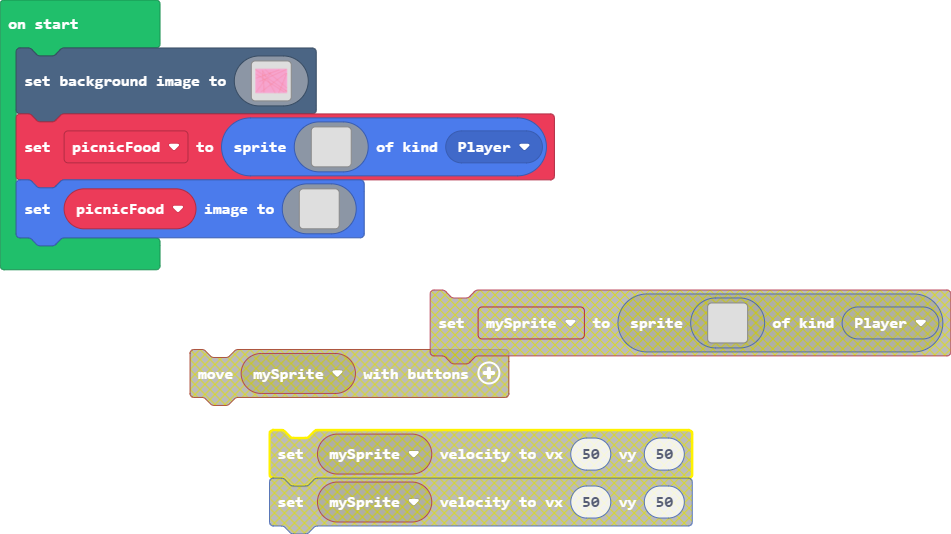
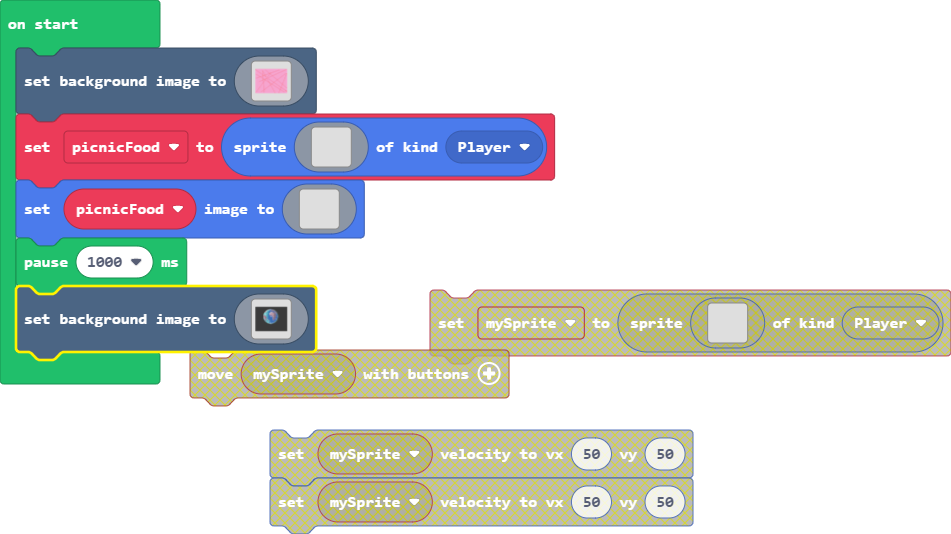
Update main.blocks, main.ts

diff --git a/main.ts b/main.ts
@@ -156,3 +156,126 @@ picnicFood.setImage(img`
     . . . . . . . . . . . . . . . . 
     . . . . . . . . . . . . . . . . 
     `)
+pause(1000)
+scene.setBackgroundImage(img`
+    ffffffffffffffffffffffffffffffffffffffffffffffffffffffffffffffffffffffffffffffffffffffffffffffffffffffffffffffffffffffffffffffffffffffffffffffffffffffffffffffff
+    ffffffffffffffffffffffffffffffffffffffffffffffffffffffffffffffffffffffffffffffffffffffffffffffffffffffffffffffffffffffffffffffffffffffffffffffffffffffffffffffff
+    ffffffffffffffffffffffffffffffffffffffffffffffffffffffffffffffffffffffffffffffffffffffffffffffffffffffffffffffffffffffffffffffffffffffffffffffffffffffffffffffff
+    ffffffffffffffffffffffffffffffffffffffffffffffffffffffffffffffffffffffffffffffffffffffffffffffffffffffffffffffffffffffffffffffffffffffffffffffffffffffffffffffff
+    ffffffffffffffffffffffffffffffffffffffffffffffffffffffffffffffffffffffffffffffffffffffffffffffffffffffffffffffffffffffffffffffffffffffffffffffffffffffffffffffff
+    ffffffffffffffffffffffffffffffffffffffffffffffffffffffffffffffffffffffffffffffffffffffffffffffffffffffffffffffffffffffffffffffffffffffffffffffffffffffffffffffff
+    ffffffffffffffffffffffffffffffffffffffffffffffffffffffffffffffffffffffffffffffffffffffffffffffffffffffffffffffffffffffffffffffffffffffffffffffffffffffffffffffff
+    ffffffffffffffffffffffffffffffffffffffffffffffffffffffffffffffffffffffffffffffffffffffffffffffffffffffffffffffffffffffffffffffffffffffffffffffffffffffffffffffff
+    ffffffffffffffffffffffffffffffffffffffffffffffffffffffffffffffffffffffffffffffffffffffffffffffffffffffffffffffffffffffffffffffffffffffffffffffffffffffffffffffff
+    ffffffffffffffffffffffffffffffffffffffffffffffffffffffffffffffffffffffffffffffffffffffffffffffffffffffffffffffffffffffffffffffffffffffffffffffffffffffffffffffff
+    ffffffffffffffffffffffffffffffffffffffffffffffffffffffffffffffffffffffffffffffffffffffffffffffffffffffffffffffffffffffffffffffffffffffffffffffffffffffffffffffff
[73 lines of base64/hex data omitted]
+    ffffffffffffffffffffffffffffffffffffffffffffffffffffffffffffffffffffffffffffffffffffffffffffffffffffffffffffffffffffffffffffffffffffffffffffffffffffffffffffffff
+    ffffffffffffffffffffffffffffffffffffffffffffffffffffffffffffffffffffffffffffffffffffffffffffffffffffffffffffffffffffffffffffffffffffffffffffffffffffffffffffffff
+    ffffffffffffffffffffffffffffffffffffffffffffffffffffffffffffffffffffffffffffffffffffffffffffffffffffffffffffffffffffffffffffffffffffffffffffffffffffffffffffffff
+    ffffffffffffffffffffffffffffffffffffffffffffffffffffffffffffffffffffffffffffffffffffffffffffffffffffffffffffffffffffffffffffffffffffffffffffffffffffffffffffffff
+    ffffffffffffffffffffffffffffffffffffffffffffffffffffffffffffffffffffffffffffffffffffffffffffffffffffffffffffffffffffffffffffffffffffffffffffffffffffffffffffffff
+    ffffffffffffffffffffffffffffffffffffffffffffffffffffffffffffffffffffffffffffffffffffffffffffffffffffffffffffffffffffffffffffffffffffffffffffffffffffffffffffffff
+    ffffffffffffffffffffffffffffffffffffffffffffffffffffffffffffffffffffffffffffffffffffffffffffffffffffffffffffffffffffffffffffffffffffffffffffffffffffffffffffffff
+    ffffffffffffffffffffffffffffffffffffffffffffffffffffffffffffffffffffffffffffffffffffffffffffffffffffffffffffffffffffffffffffffffffffffffffffffffffffffffffffffff
+    ffffffffffffffffffffffffffffffffffffffffffffffffffffffffffffffffffffffffffffffffffffffffffffffffffffffffffffffffffffffffffffffffffffffffffffffffffffffffffffffff
+    ffffffffffffffffffffffffffffffffffffffffffffffffffffffffffffffffffffffffffffffffffffffffffffffffffffffffffffffffffffffffffffffffffffffffffffffffffffffffffffffff
+    ffffffffffffffffffffffffffffffffffffffffffffffffffffffffffffffffffffffffffffffffffffffffffffffffffffffffffffffffffffffffffffffffffffffffffffffffffffffffffffffff
+    ffffffffffffffffffffffffffffffffffffffffffffffffffffffffffffffffffffffffffffffffffffffffffffffffffffffffffffffffffffffffffffffffffffffffffffffffffffffffffffffff
+    ffffffffffffffffffffffffffffffffffffffffffffffffffffffffffffffffffffffffffffffffffffffffffffffffffffffffffffffffffffffffffffffffffffffffffffffffffffffffffffffff
+    ffffffffffffffffffffffffffffffffffffffffffffffffffffffffffffffffffffffffffffffffffffffffffffffffffffffffffffffffffffffffffffffffffffffffffffffffffffffffffffffff
+    ffffffffffffffffffffffffffffffffffffffffffffffffffffffffffffffffffffffffffffffffffffffffffffffffffffffffffffffffffffffffffffffffffffffffffffffffffffffffffffffff
+    ffffffffffffffffffffffffffffffffffffffffffffffffffffffffffffffffffffffffffffffffffffffffffffffffffffffffffffffffffffffffffffffffffffffffffffffffffffffffffffffff
+    ffffffffffffffffffffffffffffffffffffffffffffffffffffffffffffffffffffffffffffffffffffffffffffffffffffffffffffffffffffffffffffffffffffffffffffffffffffffffffffffff
+    ffffffffffffffffffffffffffffffffffffffffffffffffffffffffffffffffffffffffffffffffffffffffffffffffffffffffffffffffffffffffffffffffffffffffffffffffffffffffffffffff
+    ffffffffffffffffffffffffffffffffffffffffffffffffffffffffffffffffffffffffffffffffffffffffffffffffffffffffffffffffffffffffffffffffffffffffffffffffffffffffffffffff
+    ffffffffffffffffffffffffffffffffffffffffffffffffffffffffffffffffffffffffffffffffffffffffffffffffffffffffffffffffffffffffffffffffffffffffffffffffffffffffffffffff
+    ffffffffffffffffffffffffffffffffffffffffffffffffffffffffffffffffffffffffffffffffffffffffffffffffffffffffffffffffffffffffffffffffffffffffffffffffffffffffffffffff
+    ffffffffffffffffffffffffffffffffffffffffffffffffffffffffffffffffffffffffffffffffffffffffffffffffffffffffffffffffffffffffffffffffffffffffffffffffffffffffffffffff
+    ffffffffffffffffffffffffffffffffffffffffffffffffffffffffffffffffffffffffffffffffffffffffffffffffffffffffffffffffffffffffffffffffffffffffffffffffffffffffffffffff
+    ffffffffffffffffffffffffffffffffffffffffffffffffffffffffffffffffffffffffffffffffffffffffffffffffffffffffffffffffffffffffffffffffffffffffffffffffffffffffffffffff
+    ffffffffffffffffffffffffffffffffffffffffffffffffffffffffffffffffffffffffffffffffffffffffffffffffffffffffffffffffffffffffffffffffffffffffffffffffffffffffffffffff
+    ffffffffffffffffffffffffffffffffffffffffffffffffffffffffffffffffffffffffffffffffffffffffffffffffffffffffffffffffffffffffffffffffffffffffffffffffffffffffffffffff
+    ffffffffffffffffffffffffffffffffffffffffffffffffffffffffffffffffffffffffffffffffffffffffffffffffffffffffffffffffffffffffffffffffffffffffffffffffffffffffffffffff
+    ffffffffffffffffffffffffffffffffffffffffffffffffffffffffffffffffffffffffffffffffffffffffffffffffffffffffffffffffffffffffffffffffffffffffffffffffffffffffffffffff
+    ffffffffffffffffffffffffffffffffffffffffffffffffffffffffffffffffffffffffffffffffffffffffffffffffffffffffffffffffffffffffffffffffffffffffffffffffffffffffffffffff
+    ffffffffffffffffffffffffffffffffffffffffffffffffffffffffffffffffffffffffffffffffffffffffffffffffffffffffffffffffffffffffffffffffffffffffffffffffffffffffffffffff
+    ffffffffffffffffffffffffffffffffffffffffffffffffffffffffffffffffffffffffffffffffffffffffffffffffffffffffffffffffffffffffffffffffffffffffffffffffffffffffffffffff
+    ffffffffffffffffffffffffffffffffffffffffffffffffffffffffffffffffffffffffffffffffffffffffffffffffffffffffffffffffffffffffffffffffffffffffffffffffffffffffffffffff
+    ffffffffffffffffffffffffffffffffffffffffffffffffffffffffffffffffffffffffffffffffffffffffffffffffffffffffffffffffffffffffffffffffffffffffffffffffffffffffffffffff
+    ffffffffffffffffffffffffffffffffffffffffffffffffffffffffffffffffffffffffffffffffffffffffffffffffffffffffffffffffffffffffffffffffffffffffffffffffffffffffffffffff
+    ffffffffffffffffffffffffffffffffffffffffffffffffffffffffffffffffffffffffffffffffffffffffffffffffffffffffffffffffffffffffffffffffffffffffffffffffffffffffffffffff
+    ffffffffffffffffffffffffffffffffffffffffffffffffffffffffffffffffffffffffffffffffffffffffffffffffffffffffffffffffffffffffffffffffffffffffffffffffffffffffffffffff
+    `)
